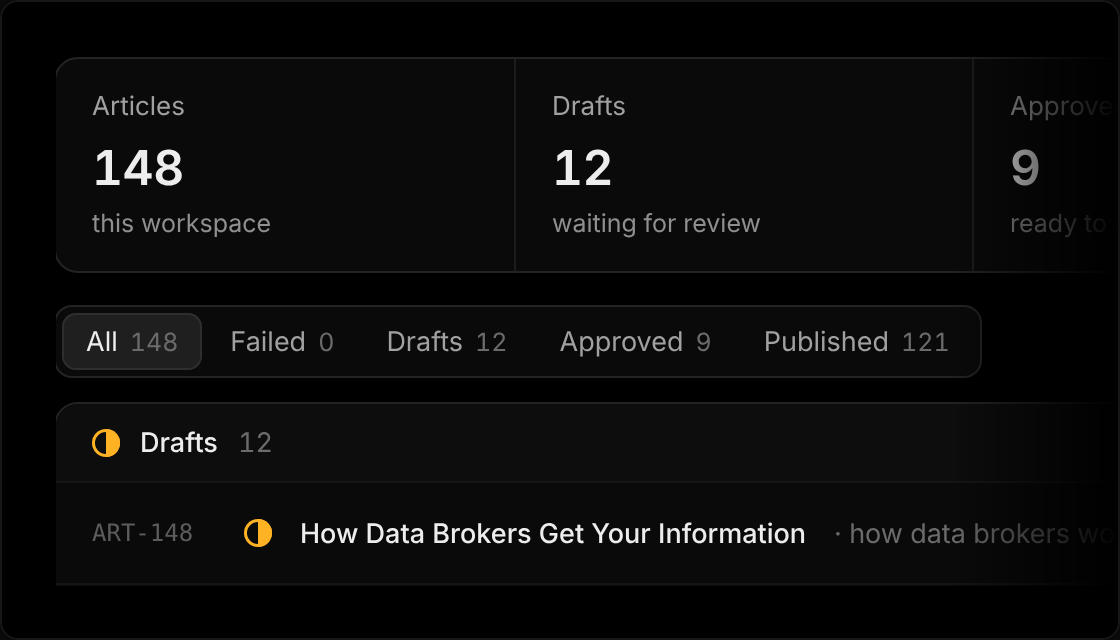
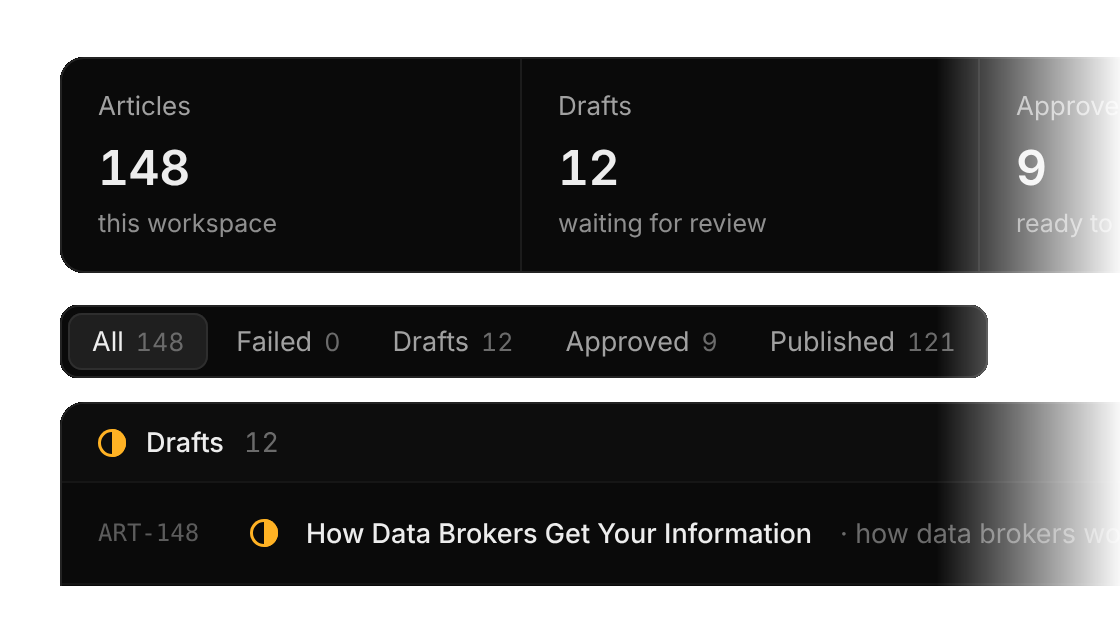
Round 37: sharp Backlinks accent, no tiny screens, grid frames

diff --git a/src/app/page.tsx b/src/app/page.tsx
@@ -68,11 +68,8 @@ const CHAPTERS: Chapter[] = [
     text: "The Keyword Planner reads your sitemap, Search Console and Google's suggestions, then sorts every keyword into quick wins, gaps, clusters and pages that compete with each other. Each list ends in a clear next step: improve a page, write a new one, or merge two.",
     href: "/product/planner",
     link: "Keyword Planner",
-    shots: [
-      { src: "/landing/planner-v23.webp", alt: "Keyword Planner with volume, difficulty, intent, positions and the page that ranks", w: 2048, h: 1110 },
-      { src: "/landing/keyword-detail-v23.webp", alt: "Keyword detail: monthly volume, difficulty, cost per click, ad competition and 12 months of searches", w: 2400, h: 1306 },
-    ],
-    caption: ["One list for every keyword", "Volume, difficulty, intent, your position and the page that ranks, side by side, with every number behind a keyword one click away."],
+    shots: [{ src: "/landing/planner-v23.webp", alt: "Keyword Planner with volume, difficulty, intent, positions and the page that ranks", w: 2048, h: 1110 }],
+    caption: ["One list for every keyword", "Volume, difficulty, intent, your position and the page that ranks, side by side. Track any keyword in one click and follow it in Keywords."],
     cards: [
       { src: "/landing/card-planner-keywords.webp", alt: "Planner keywords on the overview with volume and position", title: "Your keywords next to your traffic", text: "The keywords you plan for sit on the overview with their monthly volume and current position, so a plan and its results are on one screen." },
       { src: "/landing/card-keyword-detail.webp", alt: "Keyword detail: monthly volume, difficulty, cost per click and ad competition", title: "Every number behind a keyword", text: "Open any keyword for its monthly volume, difficulty, cost per click and ad competition, and see in seconds whether it is worth a page." },
@@ -81,6 +78,42 @@ const CHAPTERS: Chapter[] = [
       { label: "Keyword Planner", href: "/product/planner" },
       { label: "Keyword research", href: "/product/keywords" },
       { label: "Google Trends", href: "/product/keywords" },
+    ],
+  },
+  {
+    id: "backlinks",
+    title: ["Know who", "links to you"],
+    text: "Every site that links to you, with its rank, its anchor and a spam score that sorts it into clean, watch or spam. Add the sites you compete with and Hyprlyx puts their referring domains, keywords and traffic next to yours.",
+    href: "/product/backlinks",
+    link: "Backlinks",
+    shots: [{ src: "/landing/backlinks-v24.webp", alt: "Backlinks: link profile and domain rank, link quality by spam score, link types, top anchors, rank of linking sites, new linking domains and the referring domains table", w: 3360, h: 2100 }],
+    caption: ["Every link, scored", "Referring domains and backlinks with the domain rank, link quality by spam score, link types, top anchors, the rank of the sites that link to you and new linking domains month by month."],
+    cards: [
+      { src: "/landing/card-link-quality.webp", alt: "Link quality by spam score and link types with their shares", title: "Clean, watch or spam", text: "Each linking domain is sorted by its spam score: under 30 is clean, 30 to 49 is worth a look, 50 and up is spam. Pick a group to see only those domains." },
+      { src: "/landing/card-new-domains.webp", alt: "Rank of linking sites and new linking domains for the last 12 months", title: "Where your links come from", text: "The rank of every site that links to you, and how many new domains linked each month, so a link-building push shows up as a taller bar." },
+    ],
+    features: [
+      { label: "Backlinks", href: "/product/backlinks" },
+      { label: "Competitors", href: "/product/competitors" },
+      { label: "Keyword gaps", href: "/product/competitors" },
+    ],
+  },
+  {
+    id: "traffic",
+    title: ["Traffic you", "can trust"],
+    text: "Cloudflare counts every visit at the edge, including people who block analytics scripts, and Search Console counts what Google sends. Hyprlyx puts the two side by side, day by day, with the pages and countries behind every change.",
+    href: "/product/traffic",
+    link: "Traffic report",
+    shots: [{ src: "/landing/traffic-v23.webp", alt: "Traffic report: visits by country and top pages, day by day", w: 2048, h: 1110 }],
+    caption: ["One report, two sources", "Switch between Cloudflare visits and Google clicks without leaving the page. The overview, the map and every report read the same numbers."],
+    cards: [
+      { src: "/landing/card-countries.webp", alt: "Visits by country, day by day, with each country's share", title: "Visits by country, day by day", text: "Each day's visits split by country, with every country's share of the period next to it. A spike from one market shows up the day it happens." },
+      { src: "/landing/card-cloudflare.webp", alt: "Cloudflare visitors and verified bots with their change", title: "People and bots, apart", text: "Visitors from Cloudflare for 7, 14 or 28 days, and the share of requests that came from verified bots, each with its change against the period before." },
+    ],
+    features: [
+      { label: "Traffic report", href: "/product/traffic" },
+      { label: "Countries map", href: "/product/traffic" },
+      { label: "AI crawlers", href: "/product/traffic" },
     ],
   },
   {
@@ -99,44 +132,6 @@ const CHAPTERS: Chapter[] = [
       { label: "Briefs", href: "/product/content" },
       { label: "AI drafts", href: "/product/content" },
       { label: "Approval", href: "/product/content" },
-    ],
-  },
-  {
-    id: "traffic",
-    title: ["Traffic you", "can trust"],
-    text: "Cloudflare counts every visit at the edge, including people who block analytics scripts, and Search Console counts what Google sends. Hyprlyx puts the two side by side, day by day, with the pages and countries behind every change.",
-    href: "/product/traffic",
-    link: "Traffic report",
-    shots: [
-      { src: "/landing/traffic-v23.webp", alt: "Traffic report: visits by country and top pages, day by day", w: 2048, h: 1110 },
-      { src: "/landing/bots-v23.webp", alt: "Bots and crawlers: verified crawlers by category, requests per day and most crawled pages", w: 2048, h: 1110 },
-    ],
-    caption: ["Visitors and crawlers, side by side", "Cloudflare visits and Google clicks by country and page, and every verified crawler by category, with requests per day and the pages they read most."],
-    cards: [
-      { src: "/landing/card-countries.webp", alt: "Visits by country, day by day, with each country's share", title: "Visits by country, day by day", text: "Each day's visits split by country, with every country's share of the period next to it. A spike from one market shows up the day it happens." },
-      { src: "/landing/card-cloudflare.webp", alt: "Cloudflare visitors and verified bots with their change", title: "People and bots, apart", text: "Visitors from Cloudflare for 7, 14 or 28 days, and the share of requests that came from verified bots, each with its change against the period before." },
-    ],
-    features: [
-      { label: "Traffic report", href: "/product/traffic" },
-      { label: "Countries map", href: "/product/traffic" },
-      { label: "AI crawlers", href: "/product/traffic" },
-    ],
-  },
-  {
-    id: "competitors",
-    title: ["Know who", "you're up against"],
-    text: "Add the sites you compete with and Hyprlyx compares them with yours: their referring domains, keywords and traffic, the keywords you share, the gaps they hold over you, and every link that points at your own site, scored for spam.",
-    href: "/product/competitors",
-    link: "Competitor analysis",
-    shots: [
-      { src: "/landing/competitors-v23.webp", alt: "Competitors: referring domains, keywords, traffic, shared keywords and gaps for each tracked site", w: 1585, h: 930 },
-      { src: "/landing/backlinks-v23.webp", alt: "Backlinks: link quality by spam score, link types, anchors and new linking domains", w: 1586, h: 860 },
-    ],
-    caption: ["Their numbers next to yours", "Each competitor with referring domains, keywords, traffic, top-10 rankings and gaps, and your own links sorted into clean, watch and spam."],
-    features: [
-      { label: "Competitors", href: "/product/competitors" },
-      { label: "Backlinks", href: "/product/backlinks" },
-      { label: "Keyword gaps", href: "/product/competitors" },
     ],
   },
 ];
@@ -292,8 +287,8 @@ export default async function LandingPage() {
               <figure className={styles.frame}>
                 <div className={ch.shots.length > 1 ? styles.framePair : undefined}>
                   {ch.shots.map((shot) => (
-                    <div key={shot.src} className={styles.frameShot}>
-                      <Image unoptimized src={shot.src} alt={shot.alt} width={shot.w} height={shot.h} sizes="(max-width: 1200px) 100vw, 1120px" />
+                    <div key={shot.src} className={styles.frameShot} style={{ maxWidth: Math.round(shot.w / 2), marginInline: "auto" }}>
+                      <Image unoptimized src={shot.src} alt={shot.alt} width={shot.w} height={shot.h} />
                     </div>
                   ))}
                 </div>
@@ -308,7 +303,7 @@ export default async function LandingPage() {
                 {ch.cards.map((c) => (
                   <article key={c.title} className={styles.card}>
                     <div className={styles.cardVisual}>
-                      <Image unoptimized src={c.src} alt={c.alt} width={1120} height={640} sizes="(max-width: 900px) 100vw, 560px" />
+                      <Image unoptimized src={c.src} alt={c.alt} width={1120} height={640} />
                     </div>
                     <h3>{c.title}</h3>
                     <p>{c.text}</p>

diff --git a/src/components/site/features.ts b/src/components/site/features.ts
@@ -57,7 +57,7 @@ export const FEATURES: Feature[] = [
     lede: "Search Console data, live rankings, your existing pages and tracked keywords in one list — grouped into what you already rank for, quick wins, and gaps with no page yet.",
     seoTitle: "Keyword Planner for SEO: Quick Wins & Content Gaps | Hyprlyx",
     seoDescription: "Plan your content from real data: Search Console, live rankings and tracked keywords grouped into quick wins, clusters and gaps with no page yet.",
-    shot: { src: "/landing/planner-v23.webp", alt: "Keyword Planner grouping tracked keywords, quick wins and gaps", w: 2048, h: 1110, extra: { src: "/landing/keyword-detail-v23.webp", alt: "Keyword detail: monthly volume, difficulty, cost per click and 12 months of searches", w: 2400, h: 1306 } },
+    shot: { src: "/landing/planner-v23.webp", alt: "Keyword Planner grouping tracked keywords, quick wins and gaps", w: 2048, h: 1110 },
     gallery: [
       { title: "Your traffic, next to the plan", text: "The overview keeps Search Console clicks, impressions and positions beside traffic and countries, so you can see whether last month's pages moved anything.", src: "/landing/overview-v24.webp", alt: "Hyprlyx overview with Google Search, traffic and countries", w: 3360, h: 2100 },
     ],
@@ -145,7 +145,7 @@ export const FEATURES: Feature[] = [
     slug: "backlinks",
     name: "Backlinks",
     icon: Link2,
-    shot: { src: "/landing/backlinks-v23.webp", alt: "Backlinks: link quality, link types, anchors and new linking domains", w: 1586, h: 860, extra: { src: "/landing/competitors-v23.webp", alt: "Competitors with referring domains, keywords, traffic and gaps", w: 1585, h: 930 } },
+    shot: { src: "/landing/backlinks-v24.webp", alt: "Backlinks: link profile and domain rank, link quality by spam score, link types, top anchors, rank of linking sites and new linking domains", w: 3360, h: 2100 },
     short: "Referring domains, links and anchors",
     title: "Know who links to you",
     lede: "Referring domains, individual links and anchor texts — from DataForSEO or free imports from Search Console, Bing and Ahrefs exports.",
@@ -171,7 +171,7 @@ export const FEATURES: Feature[] = [
     slug: "competitors",
     name: "Competitors",
     icon: Target,
-    shot: { src: "/landing/competitors-v23.webp", alt: "Competitors: tracked domains, keyword gaps and who wins your keywords", w: 1585, h: 930, extra: { src: "/landing/backlinks-v23.webp", alt: "Backlinks: link quality, link types, anchors and new linking domains", w: 1586, h: 860 } },
+    shot: { src: "/landing/competitors-v23.webp", alt: "Competitors: tracked domains, keyword gaps and who wins your keywords", w: 1585, h: 930 },
     short: "Track rivals and the keywords they win",
     title: "Watch the sites you compete with",
     lede: "Add competitors and see their pages, ranking keywords and the gaps where they rank and you don't.",
@@ -183,7 +183,7 @@ export const FEATURES: Feature[] = [
       { value: "Snapshots", label: "to see how they change over time" },
     ],
     gallery: [
-      { title: "And the links behind them", text: "Referring domains, link types, anchors and spam score for your own site, so you know which links count and which to ignore.", src: "/landing/backlinks-v23.webp", alt: "Backlinks: link quality, types, anchors and new domains", w: 1586, h: 860 },
+      { title: "And the links behind them", text: "Referring domains, link types, anchors and spam score for your own site, so you know which links count and which to ignore.", src: "/landing/backlinks-v24.webp", alt: "Backlinks: link quality, types, anchors and new domains", w: 3360, h: 2100 },
     ],
     points: [
       { title: "Keyword gaps", text: "The searches competitors win that you have no page for." },
@@ -197,7 +197,7 @@ export const FEATURES: Feature[] = [
     slug: "traffic",
     name: "Traffic & bots",
     icon: Bot,
-    shot: { src: "/landing/traffic-v23.webp", alt: "Traffic report: visits by country and top pages, day by day", w: 2048, h: 1110, extra: { src: "/landing/bots-v23.webp", alt: "Bots and crawlers by category with requests per day and most crawled pages", w: 2048, h: 1110 } },
+    shot: { src: "/landing/traffic-v23.webp", alt: "Traffic report: visits by country and top pages, day by day", w: 2048, h: 1110 },
     short: "Visitors, countries, pages — and AI crawlers",
     title: "See who visits — people and bots",
     lede: "Audience data from Google Analytics 4 and traffic from Cloudflare, including which search engines and AI crawlers read your site.",

diff --git a/src/app/landing.module.css b/src/app/landing.module.css
@@ -178,3 +178,37 @@
 .boardGrid h3 svg { flex: none; color: var(--soft); }
 .boardGrid p { margin: 0; color: var(--muted); font-size: 14px; line-height: 1.6; }
 @media (max-width: 900px) { .board { grid-template-columns: 1fr; padding-top: 36px; } .boardGrid { grid-template-columns: 1fr; gap: 22px; } }
+
+/* ===== v7: screens on a quiet technical grid (as on vercel.com). Still black, still no light. ===== */
+.frame {
+  padding: 40px 40px 0;
+  background-color: #050505;
+  background-image: linear-gradient(rgba(255, 255, 255, 0.04) 1px, transparent 1px), linear-gradient(90deg, rgba(255, 255, 255, 0.04) 1px, transparent 1px);
+  background-size: 48px 48px;
+  background-position: -1px -1px;
+}
+.frameShot { box-shadow: 0 30px 80px -20px rgba(0, 0, 0, 0.9); }
+.cardVisual {
+  padding: 26px 22px;
+  border-bottom: 1px solid rgba(255, 255, 255, 0.08);
+  background-color: #050505;
+  background-image: linear-gradient(rgba(255, 255, 255, 0.04) 1px, transparent 1px), linear-gradient(90deg, rgba(255, 255, 255, 0.04) 1px, transparent 1px);
+  background-size: 32px 32px;
+  background-position: -1px -1px;
+}
+.cardVisual img { filter: drop-shadow(0 18px 32px rgba(0, 0, 0, 0.75)); }
+@media (max-width: 700px) { .frame { padding: 20px 20px 0; } .cardVisual { padding: 18px 14px; } }
+/* Caption under the screen (not over its faded edge). */
+.frameCaption { margin-top: 0; padding: 22px 0 34px; }
+/* The hero screen sits in the same grid frame. */
+.heroShot {
+  padding: 40px 40px 0;
+  border: 1px solid rgba(255, 255, 255, 0.1);
+  border-radius: 16px;
+  background-color: #050505;
+  background-image: linear-gradient(rgba(255, 255, 255, 0.04) 1px, transparent 1px), linear-gradient(90deg, rgba(255, 255, 255, 0.04) 1px, transparent 1px);
+  background-size: 48px 48px;
+  background-position: -1px -1px;
+}
+.heroShot img { border: 1px solid rgba(255, 255, 255, 0.1); border-bottom: 0; border-radius: 10px 10px 0 0; box-shadow: 0 30px 80px -20px rgba(0, 0, 0, 0.9); }
+@media (max-width: 700px) { .heroShot { padding: 16px 16px 0; } }

diff --git a/src/components/site/site.module.css b/src/components/site/site.module.css
@@ -259,3 +259,20 @@ a.cell:hover .cellMore { color: var(--text); }
 /* One full-width button per plan card (the button sets its own colours inline). */
 .planCta > span { display: flex !important; width: 100%; }
 .planCta button { width: 100%; height: 42px; padding: 0 20px !important; font-size: 14px !important; }
+
+/* Product screens sit in the same grid frame as on the landing: thin border, black, no light. */
+.stage {
+  max-width: 1272px;
+  margin: 64px auto 0;
+  padding: 40px 40px 0;
+  overflow: hidden;
+  border: 1px solid rgba(255, 255, 255, 0.1);
+  border-radius: 16px;
+  background-color: #050505;
+  background-image: linear-gradient(rgba(255, 255, 255, 0.04) 1px, transparent 1px), linear-gradient(90deg, rgba(255, 255, 255, 0.04) 1px, transparent 1px);
+  background-size: 48px 48px;
+  background-position: -1px -1px;
+}
+.stage .shot { box-shadow: 0 30px 80px -20px rgba(0, 0, 0, 0.9); }
+@media (max-width: 1320px) { .stage { margin-left: 24px; margin-right: 24px; } }
+@media (max-width: 700px) { .stage { margin-left: 12px; margin-right: 12px; padding: 20px 20px 0; } }
